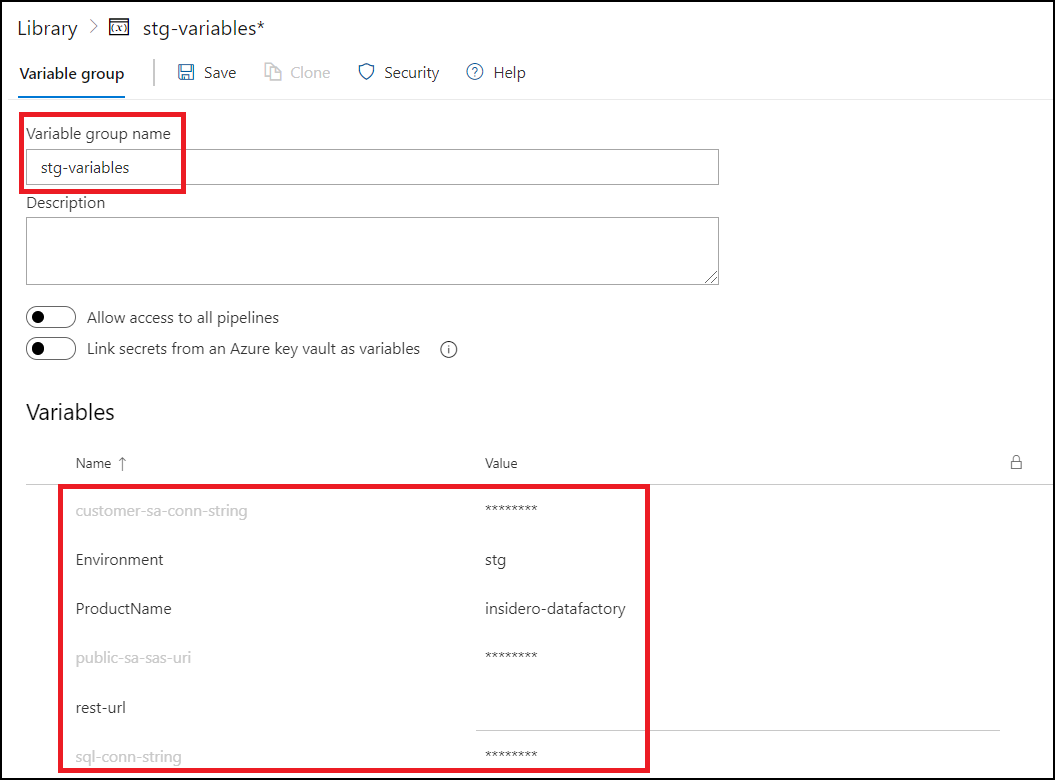
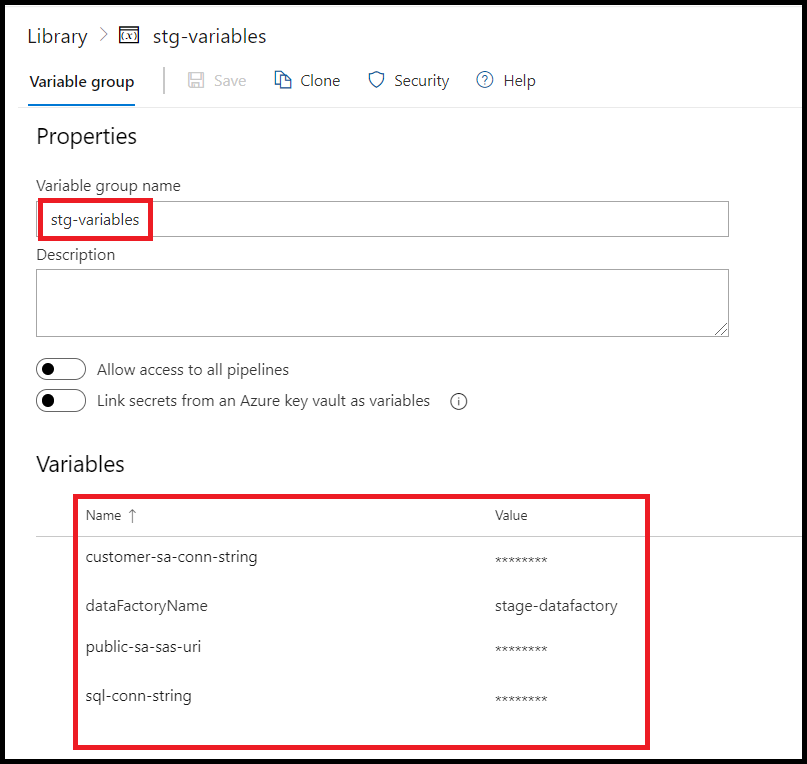
updated vars image

diff --git a/datasets/covid-19/definitive-healthcare/azure-pipelines-cicd/readme.md b/datasets/covid-19/definitive-healthcare/azure-pipelines-cicd/readme.md
@@ -121,7 +121,8 @@ After having exctracted the files in the repo. The repository should look like t
 
 2. dataFactoryName 
 
-    // Name of the service, in this case, it will be the name of the data factory
+    // Name of the service, in this case, it will be the name of the data factory to which you the resources to be deployed to.
+    Please note that
 
 3. public-sa-sas-uri 
 
